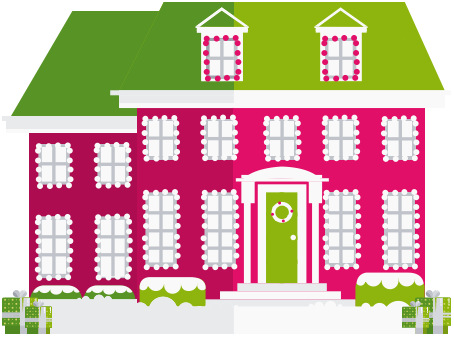
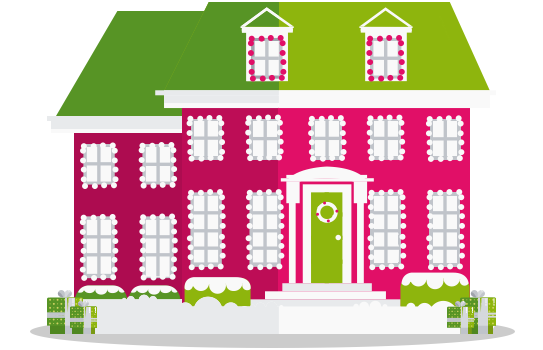
Lul

diff --git a/index.html b/index.html
@@ -7,13 +7,14 @@
         <title>ComeOn Christmas</title>
         <link rel="stylesheet" href="style.css">
         <link href="https://fonts.googleapis.com/css?family=Mountains+of+Christmas:400,700|Open+Sans:400,600,700" rel="stylesheet">
+        <link href="https://fonts.googleapis.com/css?family=Roboto:300" rel="stylesheet">
+        <link href="https://fonts.googleapis.com/css?family=Cabin" rel="stylesheet">
+
         <script src="snow.js"></script>
     </head>
     <body>
         
-
         <canvas id="snow" class="snow"></canvas>
-
         <script >var canvas = document.getElementById('snow'),
     ctx = canvas.getContext('2d'),
     width = ctx.canvas.width = document.body.offsetWidth,
@@ -91,39 +92,41 @@ loop();
 //# sourceURL=pen.js
 </script>
         
-        <div class="snowman">
-            <img src="img/snowman.png">
-        </div>
+        <div id="promo">
+            
+            
         
-        <div class="gingerbread">
-            <img src="img/gingerbread.png">
-        </div>
+            <div class="snowman"><img src="img/snowman.png"></div>
+            <div class="gingerbread"><img src="img/gingerbread.png"></div>
+            <div class="house"><img src="img/house.png"></div>
         
-        <div class="house">
-            <img src="img/house.png">
-        </div>
-        
-        
-        
-        <div class="container">
-            <div class="santa">
-                <img src="img/santa.png">
+            <div class="container">
+            
+                <div class="santa"><img src="img/santa.png"></div>
+            
+                <h1>Howdy, howdy ho!</h1>
+
+                <p>We just got notice from Santa, that ComeOn employees have been
+                properly eating their porridge, and been nice most of the year!</p>
+                <p>We have been so nice that he will visit us even before Christmas day!<br>So, if you want to partake in this jolly event, please save the date!</p>
+
+                
+                <h2>15th December!</h2>
+                
+                <p>Santa Claus needs you to RSVP to the event you'll recieve shortly.</p>
+
+            
+                <!--<a class="btn" href="https://calendar.google.com/calendar/hosted/comeon.com/event?action=TEMPLATE&tmeid=Xzc0czNjZ3BtNjRwMzZiYTQ2MHIzMGI5azcwbzMyYmEyNjRwNDJiYTE2a3M0MmdpNThsMGpnZ3EyNmMgY2xhZXMuc2FuZHN0cm9tQGNvbWVvbi5jb20&tmsrc=claes.sandstrom%40comeon.com">SAVE THE DATE</a>-->
+            
             </div>
-            <h1>Heydy, heydy ho!</h1>
-
-            <p>We just got notice from Santa, that ComeOn employees have been
-properly eating their porridge, and been nice most of the year!<br><br>
-We have been so nice that he will visit us even before Christmas day!
-So, if you want to partake in this jolly event, please save the date!</p>
-                        <h2>15th December!</h2>
-            <a class="btn" href="https://calendar.google.com/calendar/hosted/comeon.com/event?action=TEMPLATE&tmeid=Xzc0czNjZ3BtNjRwMzZiYTQ2MHIzMGI5azcwbzMyYmEyNjRwNDJiYTE2a3M0MmdpNThsMGpnZ3EyNmMgY2xhZXMuc2FuZHN0cm9tQGNvbWVvbi5jb20&tmsrc=claes.sandstrom%40comeon.com">SAVE THE DATE</a>
+            
+            <div class="hills"></div>
             
         </div>
 
         
             
-        <div class="hills">
-        </div>
+            
         
         <audio autoplay="autoplay" controls="none" loop="">
 	       <source src="music.ogg">

diff --git a/style.css b/style.css
@@ -13,6 +13,11 @@ html {
 }
 
 
+#promo {
+    height: 1024px;
+    width: 100%;
+}
+
 .snow {
   height: 100%;
   position: absolute;
@@ -24,7 +29,7 @@ html {
     position: absolute;
     bottom: 2%;
     left: 12%;
-    zoom: 0.4;
+    width: 104px;
     transform-origin: bottom;
     -webkit-animation: ROTATE 2s infinite; 
     -moz-animation:    ROTATE 2s infinite; 
@@ -32,29 +37,48 @@ html {
     animation:         ROTATE 2s infinite; 
 }
 
+.snowman img {
+    width: 104px;
+}
+
 .gingerbread {
     position: absolute;
-    bottom: 6%;
+    bottom: 5%;
     right: 20%;
-    zoom: 0.4;  
+    width: 152px;  
+    transform-origin: bottom;
     -webkit-animation: ROTATE2 2s infinite; 
     -moz-animation:    ROTATE2 2s infinite; 
     -o-animation:      ROTATE2 2s infinite; 
     animation:         ROTATE2 2s infinite;   
 }
 
+.gingerbread img {
+    width: 152px;
+}
+
 .house {
     z-index: 1;
     position: absolute;
     bottom: 2%;
-    right: 46%;
-    zoom: 0.4;     
+    right: 43%;
+    width: 250px;     
+    
+    -webkit-animation: PULSE 2s infinite; 
+    -moz-animation:    PULSE 2s infinite; 
+    -o-animation:      PULSE 2s infinite; 
+    animation:         PULSE 2s infinite;
+}
+
+.house img {
+    width: 250px;
 }
 
 
 .container {
-    position: absolute;
-    top: 20%;
+    top: 15vh;
+    
+    position: relative;
     left: 0; 
     right: 0; 
     margin-left: auto; 
@@ -62,15 +86,22 @@ html {
     width: 600px;
 }
 
+.container p {
+    margin: 8px 40px;
+}
+
 .santa {
-    width: 218px;
+    width: 109px;
     margin: 0 auto;
-    zoom: 0.5;
     transform-origin: center;
     -webkit-animation: ROTATE2 2s infinite; 
     -moz-animation:    ROTATE2 2s infinite; 
     -o-animation:      ROTATE2 2s infinite; 
     animation:         ROTATE2 2s infinite;
+}
+
+.santa img {
+    width: 109px;
 }
 
 
@@ -88,9 +119,6 @@ h1, h2, p {
     text-shadow: 1px 1px 0px rgba(0,0,0,0.35);
 }
 
-p {
-    text-align: center;
-}
 
 h1 {
     font-family: 'Mountains of Christmas', cursive;
@@ -104,7 +132,7 @@ h1 {
 
 h2 {
     font-family: 'Mountains of Christmas', cursive;
-    font-size: 30px;
+    font-size: 34px;
     margin-top: 15px;
     margin-bottom: 10px;
     font-weight: 700;
@@ -113,11 +141,12 @@ h2 {
 }
 
 p {
-    font-family: 'Open Sans', sans-serif;
-    font-size: 18px;
+    font-family: 'Cabin', sans-serif;
+    font-size: 16px;
     font-weight: 400;
     color: #fff;
-    line-height: 24px;
+    line-height: 22px;
+    letter-spacing: -0.1px;
 }
 
 .btn {
@@ -159,4 +188,10 @@ audio {display:none;}
     0%   { transform: rotate(5deg); }
     50%  { transform: rotate(-5deg); }
     100% { transform: rotate(5deg); }
+}
+
+@-webkit-keyframes PULSE {
+    0%   { transform: scale(1,1); }
+    50%  { transform: scale(0.95,0.95); }
+    100% { transform: scale(1,1); }
 }
